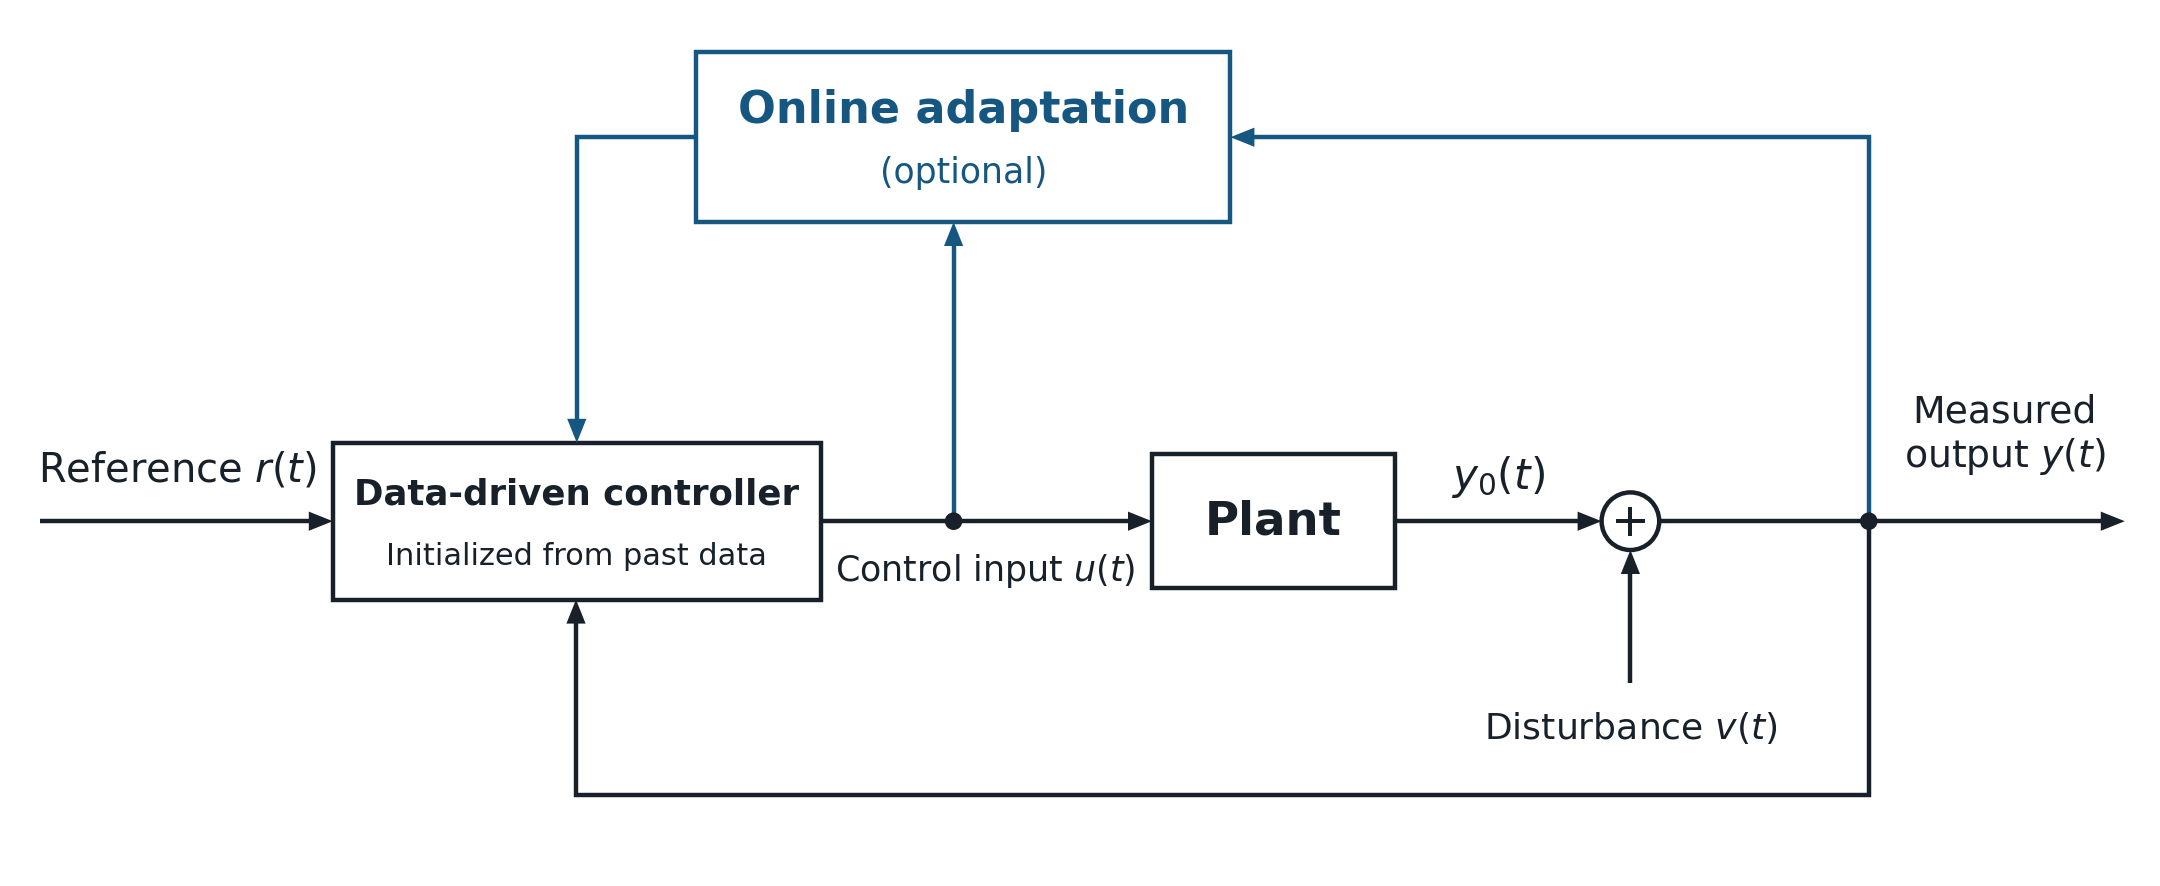
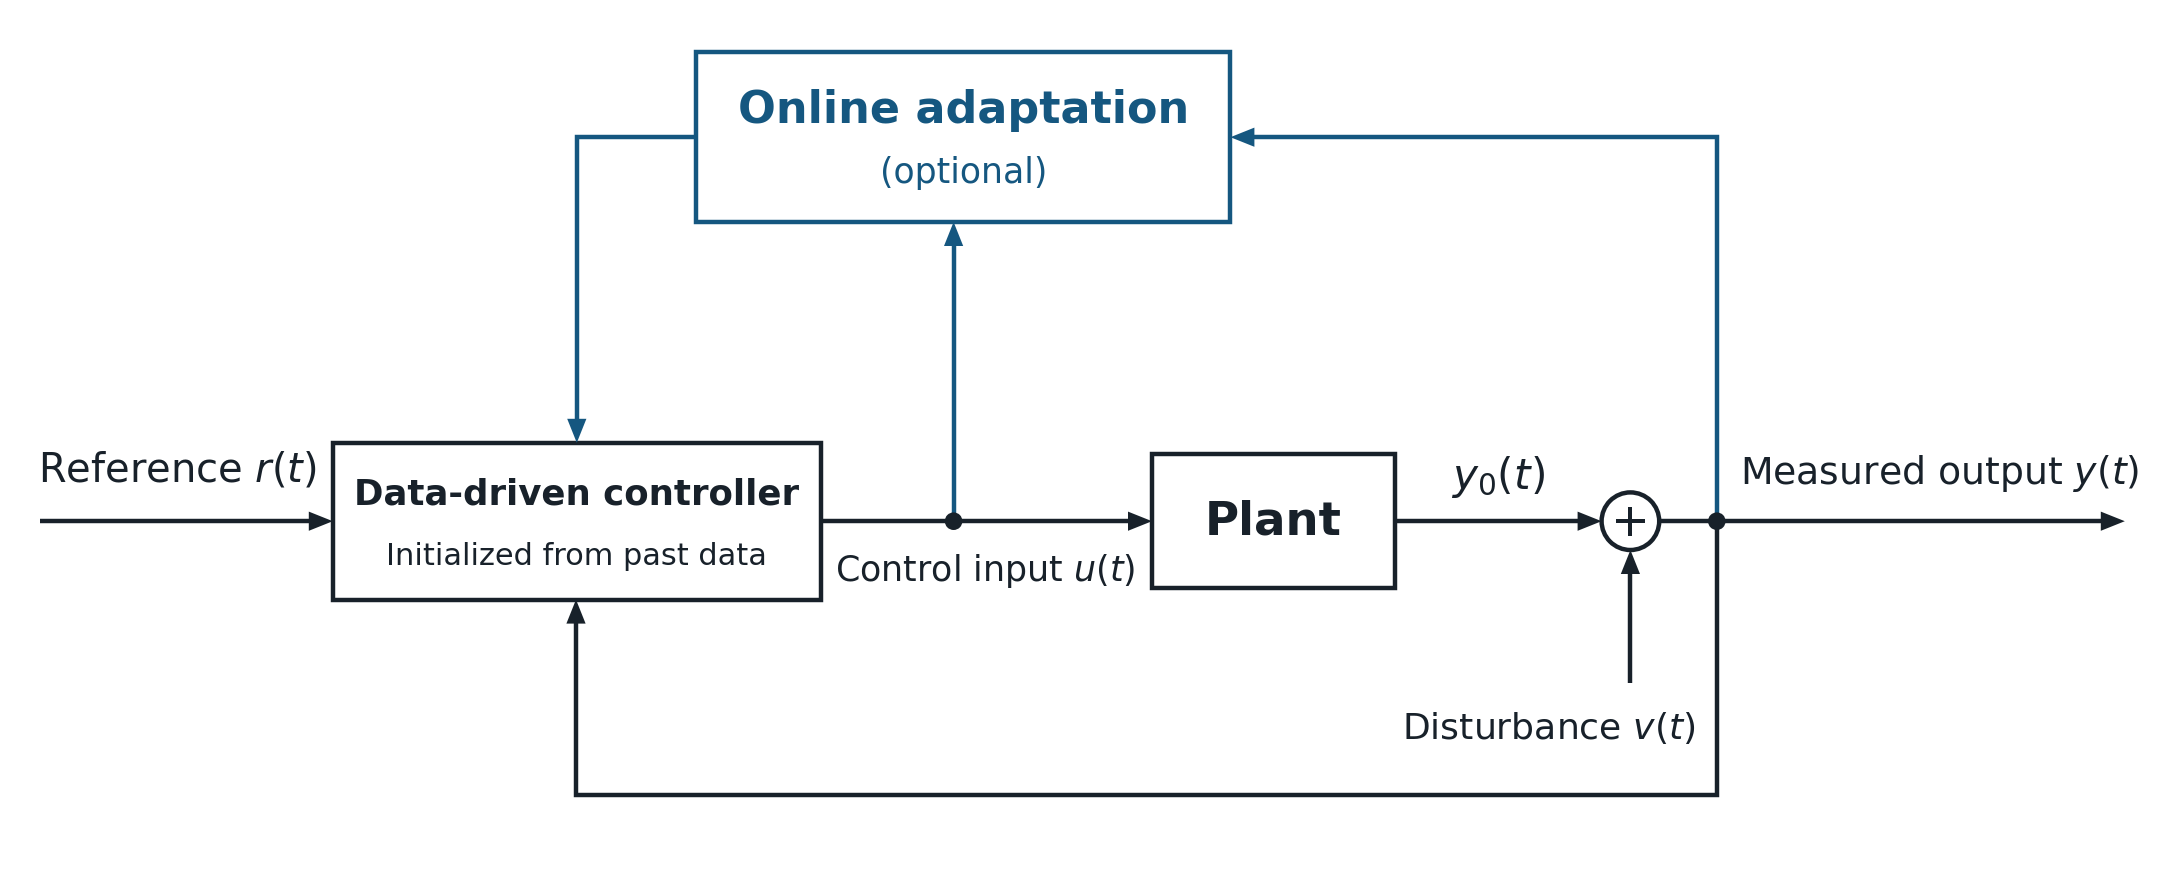
Keep the measured output label on one line

diff --git a/research.html b/research.html
@@ -39,7 +39,7 @@ Guangdong, China</p>
 </section>
 <section class="section research-topic" id="control-and-decision-making">
 <h2><a href="research-control-and-decision-making.html">Data-driven control and decision-making</a></h2>
-<div class="research-grid"><a class="research-figure" href="research-control-and-decision-making.html" aria-label="Data-driven control and decision-making"><img src="assets/research/data-driven-control-block-diagram.png?v=signal-labels" alt="The controller receives the reference r(t) and measured output y(t) and applies the control input u(t) to the plant. The measured output equals the plant output y₀(t) plus the disturbance v(t). Both u(t) and y(t) feed the optional online adaptation block, which updates the controller." width="2160" height="886" loading="lazy"></a><div class="research-description"><p>Data-driven model predictive control, stochastic adaptive control, iterative learning control, online decision-making, and reinforcement learning.</p><p class="research-more"><a href="research-control-and-decision-making.html">Related publications <span aria-hidden="true">→</span></a></p></div></div>
+<div class="research-grid"><a class="research-figure" href="research-control-and-decision-making.html" aria-label="Data-driven control and decision-making"><img src="assets/research/data-driven-control-block-diagram.png?v=single-line-output" alt="The controller receives the reference r(t) and measured output y(t) and applies the control input u(t) to the plant. The measured output equals the plant output y₀(t) plus the disturbance v(t). Both u(t) and y(t) feed the optional online adaptation block, which updates the controller." width="2160" height="886" loading="lazy"></a><div class="research-description"><p>Data-driven model predictive control, stochastic adaptive control, iterative learning control, online decision-making, and reinforcement learning.</p><p class="research-more"><a href="research-control-and-decision-making.html">Related publications <span aria-hidden="true">→</span></a></p></div></div>
 </section>
 <section class="section research-topic" id="physics-informed-modeling">
 <h2><a href="research-physics-informed-modeling.html">Physics-informed modeling</a></h2>

diff --git a/research-control-and-decision-making.html b/research-control-and-decision-making.html
@@ -33,7 +33,7 @@ Guangdong, China</p>
 </aside>
 <main id="main">
 <div class="page-heading"><nav class="links" aria-label="Breadcrumb"><a href="research.html">Research</a><span aria-hidden="true">/</span><span>Data-driven control and decision-making</span></nav><h1>Data-driven control and decision-making</h1><p>Data-driven model predictive control, stochastic adaptive control, iterative learning control, online decision-making, and reinforcement learning.</p></div>
-<div class="topic-intro"><figure class="research-figure"><a href="assets/research/data-driven-control-block-diagram.png?v=signal-labels" title="Open full-size block diagram"><img src="assets/research/data-driven-control-block-diagram.png?v=signal-labels" alt="The controller receives the reference r(t) and measured output y(t) and applies the control input u(t) to the plant. The measured output equals the plant output y₀(t) plus the disturbance v(t). Both u(t) and y(t) feed the optional online adaptation block, which updates the controller." width="2160" height="886" loading="lazy"></a></figure></div>
+<div class="topic-intro"><figure class="research-figure"><a href="assets/research/data-driven-control-block-diagram.png?v=single-line-output" title="Open full-size block diagram"><img src="assets/research/data-driven-control-block-diagram.png?v=single-line-output" alt="The controller receives the reference r(t) and measured output y(t) and applies the control input u(t) to the plant. The measured output equals the plant output y₀(t) plus the disturbance v(t). Both u(t) and y(t) feed the optional online adaptation block, which updates the controller." width="2160" height="886" loading="lazy"></a></figure></div>
 <section class="section" id="journals">
 <h2>Journal papers</h2>
 <ol class="rows numbered-list">
